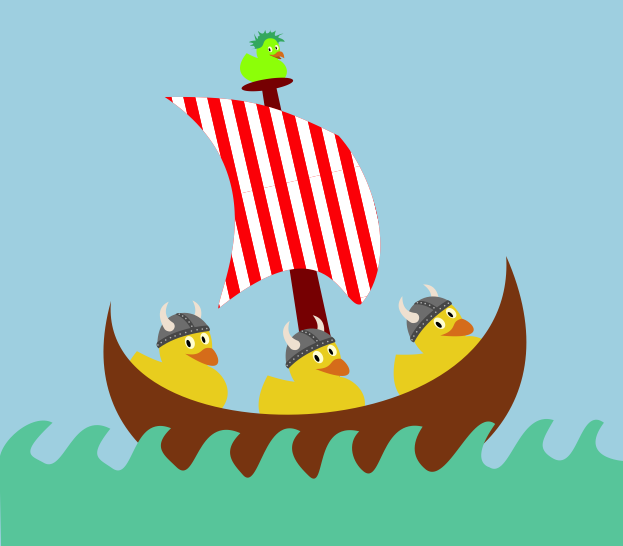
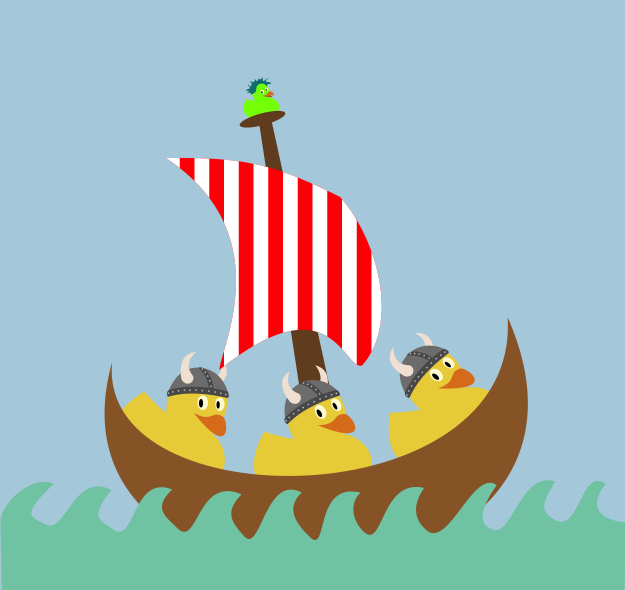
added source for viking ducks

Changed region(s): [[0.0, 0.0623, 1.0, 0.9341]]

diff --git a/duckpond/vikings.tex b/duckpond/vikings.tex
@@ -1,0 +1,45 @@
+\documentclass[tikz]{standalone}
+
+\usepackage{tikzducks}
+\usetikzlibrary{patterns}
+
+\begin{document}
+
+\begin{tikzpicture}
+
+% hintergrund
+\path[fill=green!40!blue!30!white] (-4.3,2) rectangle (6.3,12);
+
+\begin{pgfinterruptboundingbox}
+
+\duck[body=green!50!yellow,parrot,xscale=-1,scale=0.3,yshift=940,rotate=-15,crazyhair=teal,xshift=-50] 
+
+
+% mast
+\path[fill=brown!60!black] (0.0857,9.9673) -- (1.0226,3.8435) -- (1.6154,3.9597) -- (0.2873,10.0376) -- cycle;
+
+\path[fill=brown!60!black,rotate=15] (2.73,9.6) ellipse (0.4 and 0.1);
+
+\duck[viking,xscale=-1,rotate=-10,yshift=90,xshift=-80]
+\duck[viking,xscale=-1,rotate=-30,yshift=50,xshift=-180]
+\duck[viking,xscale=-1,rotate=20,yshift=85,xshift=50]
+
+% segel
+\fill[red] (-1.4847,9.3216) .. controls (-0.1298,9.3362) and (0.3333,9.2219) .. (1.4669,8.6632) .. controls (2.1061,7.9422) and (2.4818,6.5239) .. (1.8402,5.8051) .. controls (1.5278,5.7129) and (1.3297,7.2643) .. (-0.5769,5.7317) .. controls (-0.5700,6.0865) and (0.4656,8.0283) .. (-1.4847,9.3216) -- cycle;;
+\begin{scope}
+	\clip (-1.4847,9.3216) .. controls (-0.1298,9.3362) and (0.3333,9.2219) .. (1.4669,8.6632) .. controls (2.1061,7.9422) and (2.4818,6.5239) .. (1.8402,5.8051) .. controls (1.5278,5.7129) and (1.3297,7.2643) .. (-0.5769,5.7317) .. controls (-0.5700,6.0865) and (0.4656,8.0283) .. (-1.4847,9.3216) -- cycle;;
+		\foreach \shifta in {-1.5,-1,...,2.3}{%
+			\fill[white] 
+			($(0,5.5)+(\shifta,0)$) rectangle ($(0,5.5)+(\shifta,0)+(0.25,4)$);
+		}
+\end{scope}
+
+% boot
+\path[fill=brown!80!black] (-2.3957,5.8651) .. controls (-2.6637,3.1459) and (4.5256,3.2048) .. (4.3064,6.6244) .. controls (6.6473,1.3173) and (-3.7900,0.9272) .. (-2.3957,5.8651) -- cycle;
+
+% wasser
+\path[fill=green!60!blue!50!white] (-4.2891,3.1257) .. controls (-4.3137,3.4742) and (-3.7244,3.9743) .. (-3.3880,3.7964) .. controls (-3.9762,3.2443) and (-3.7539,3.2425) .. (-3.5372,3.1164) .. controls (-3.1852,2.9117) and (-3.0491,4.0248) .. (-2.4082,3.6946) .. controls (-2.7948,3.2069) and (-2.6081,3.1905) .. (-2.3768,3.0249) .. controls (-2.0065,2.7598) and (-2.0491,3.9722) .. (-1.3783,3.7032) .. controls (-1.7223,3.3772) and (-1.4751,3.2329) .. (-1.2906,3.0481) .. controls (-0.9405,2.6974) and (-0.9588,3.9518) .. (-0.2021,3.6196) .. controls (-0.5232,3.3028) and (-0.3364,3.1138) .. (-0.1597,2.9124) .. controls (0.1198,2.5935) and (0.1999,3.9816) .. (0.8168,3.6507) .. controls (0.5074,3.3603) and (0.7730,3.0752) .. (0.9586,2.8950) .. controls (1.2695,2.5933) and (1.0226,3.8435) .. (1.8147,3.6503) .. controls (1.5901,3.4357) and (1.7102,3.1127) .. (1.8897,2.9697) .. controls (2.1998,2.7227) and (2.1749,3.8962) .. (2.8898,3.7299) .. controls (2.6783,3.4145) and (2.7316,3.1829) .. (2.9351,3.0104) .. controls (3.3036,2.6980) and (3.7341,4.0701) .. (4.1205,3.7756) .. controls (3.6541,3.1196) and (4.0195,3.0422) .. (4.0195,3.0422) .. controls (4.3705,2.8179) and (4.5151,4.0299) .. (5.1137,3.8400) .. controls (4.9154,3.4986) and (4.8256,3.3619) .. (5.0856,3.1999) .. controls (5.5309,2.9223) and (5.5427,4.1017) .. (5.9650,3.7967) .. controls (5.5063,3.1862) and (6.3001,3.1472) .. (6.3001,3.1472) -- (6.2888,1.7053) -- (-4.2612,1.6876) -- cycle;
+\end{pgfinterruptboundingbox}
+\end{tikzpicture}
+
+\end{document}
